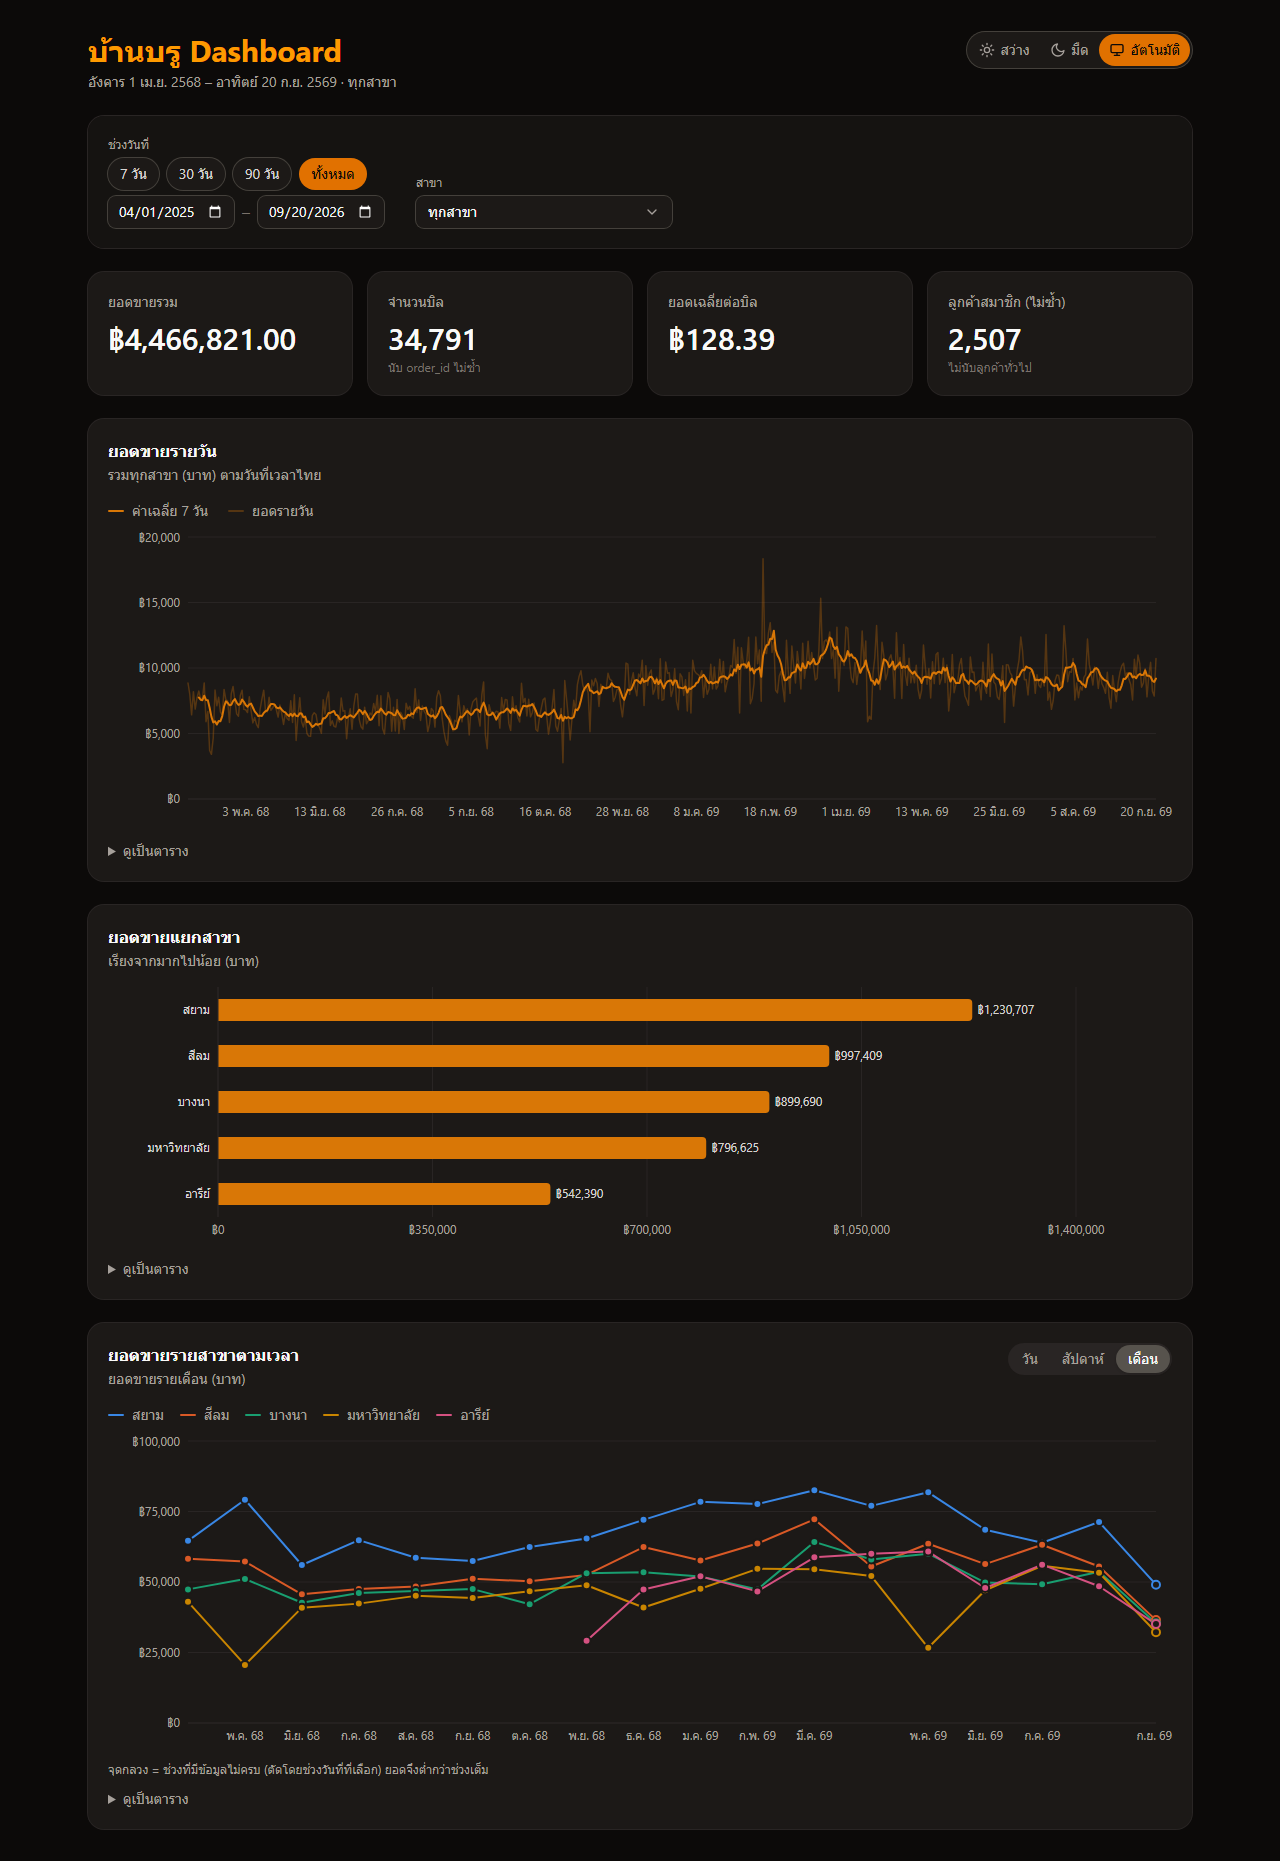
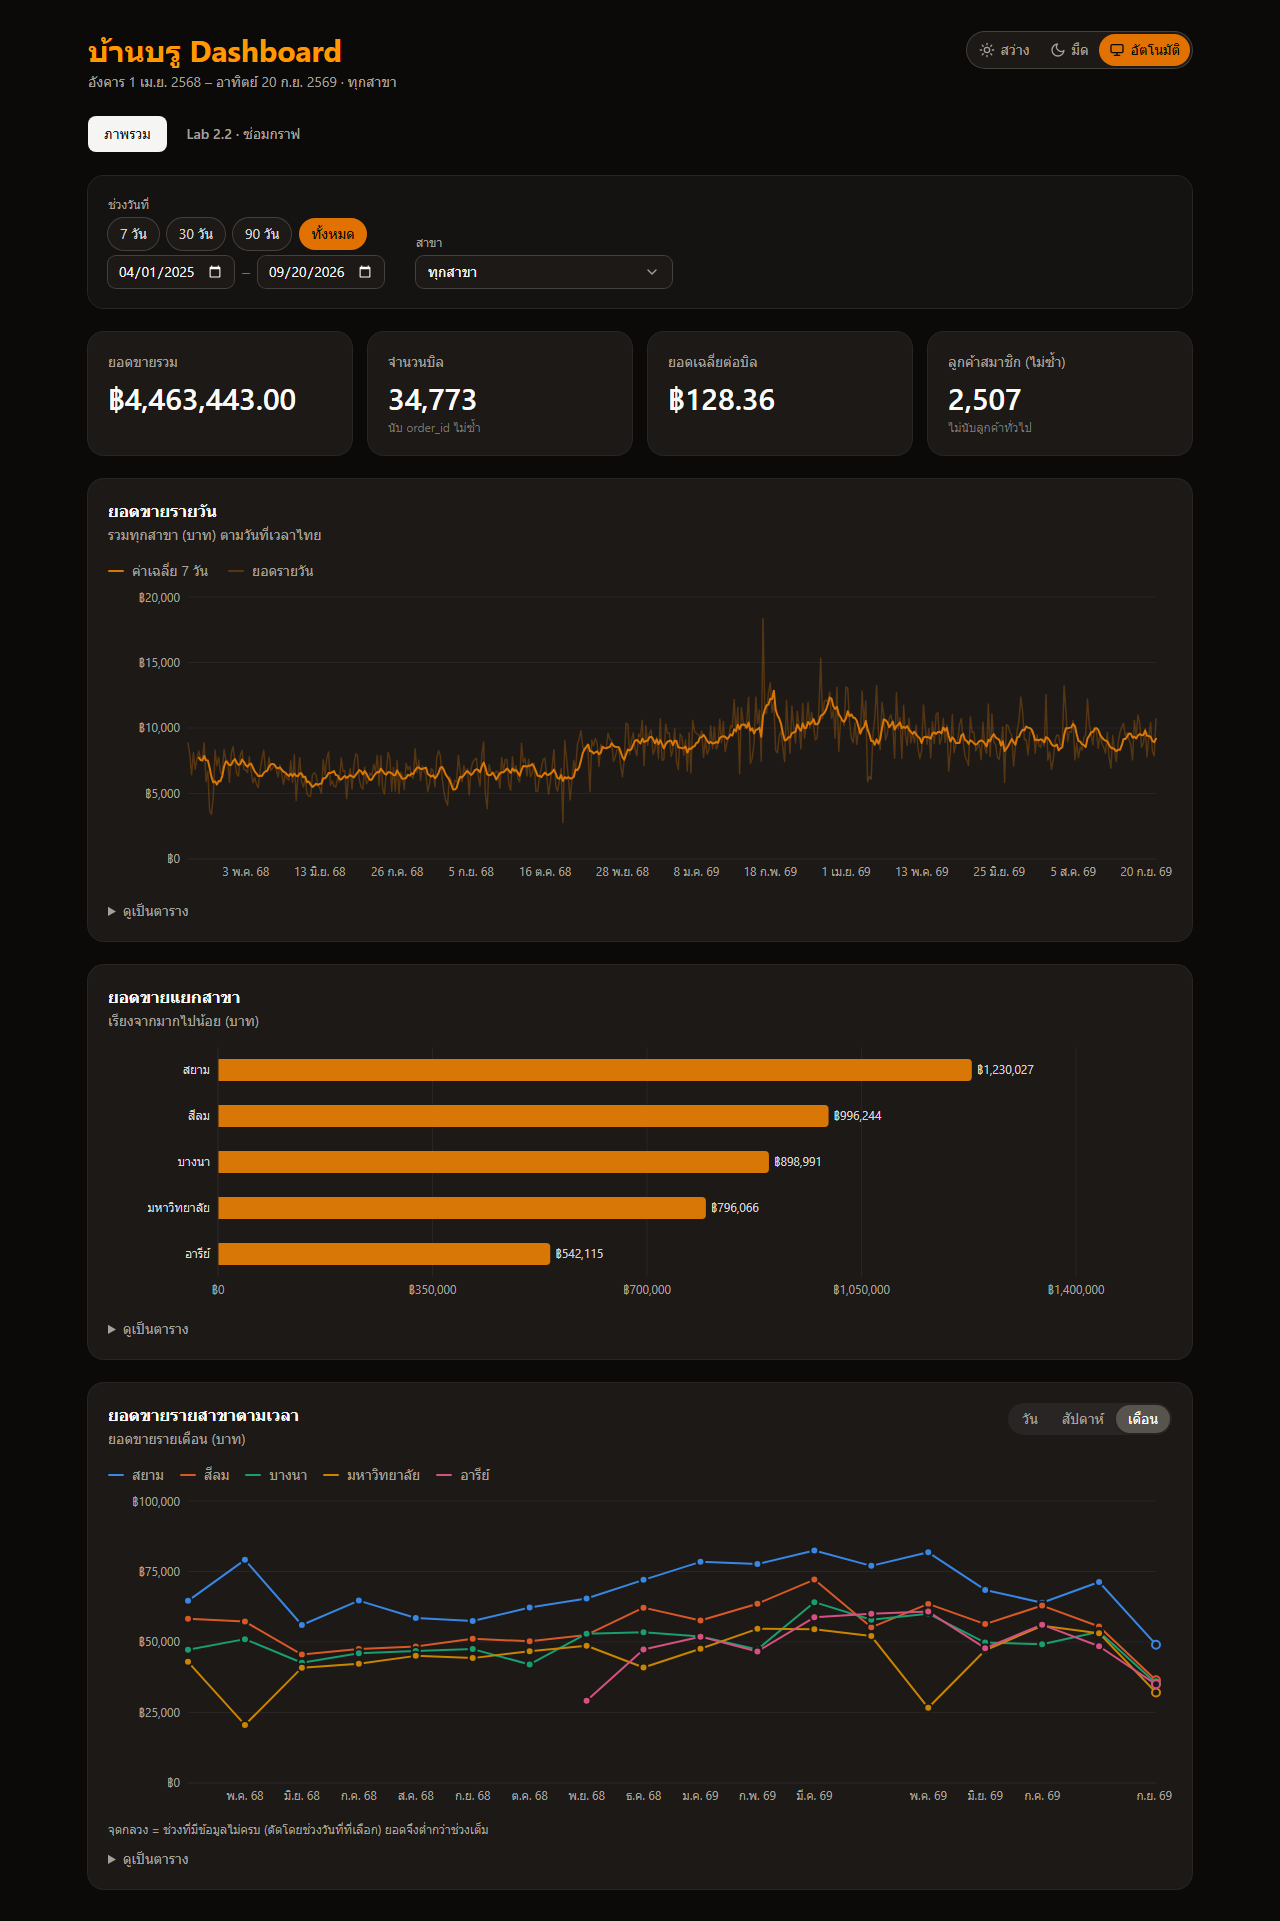
Update screenshots to show the Lab 2.2 tab
- Capture the Lab 2.2 tab (lab2-light.png) and add it to the README
- Retake overview screenshots, which now show the tab bar
- Widen FixedChart4's right margin so the partial-month label is not clipped

diff --git a/src/lab2/FixedCharts.jsx b/src/lab2/FixedCharts.jsx
@@ -177,7 +177,7 @@ export function FixedChart4({ rows }) {
 
   return (
     <Frame summary={summary}>
-      <BarChart data={data} margin={{ top: 18, right: 4, bottom: 0, left: 0 }}>
+      <BarChart data={data} margin={{ top: 18, right: 24, bottom: 0, left: 0 }}>
         <CartesianGrid vertical={false} stroke={theme.grid} />
         <XAxis dataKey="month" tickFormatter={thaiMonth} interval="preserveStartEnd" minTickGap={8} tick={{ fontSize: 11, fill: theme.axisText }} tickLine={false} />
         <YAxis tickFormatter={formatBahtCompact} width={56} tick={{ fontSize: 12, fill: theme.axisText }} axisLine={false} tickLine={false} />
